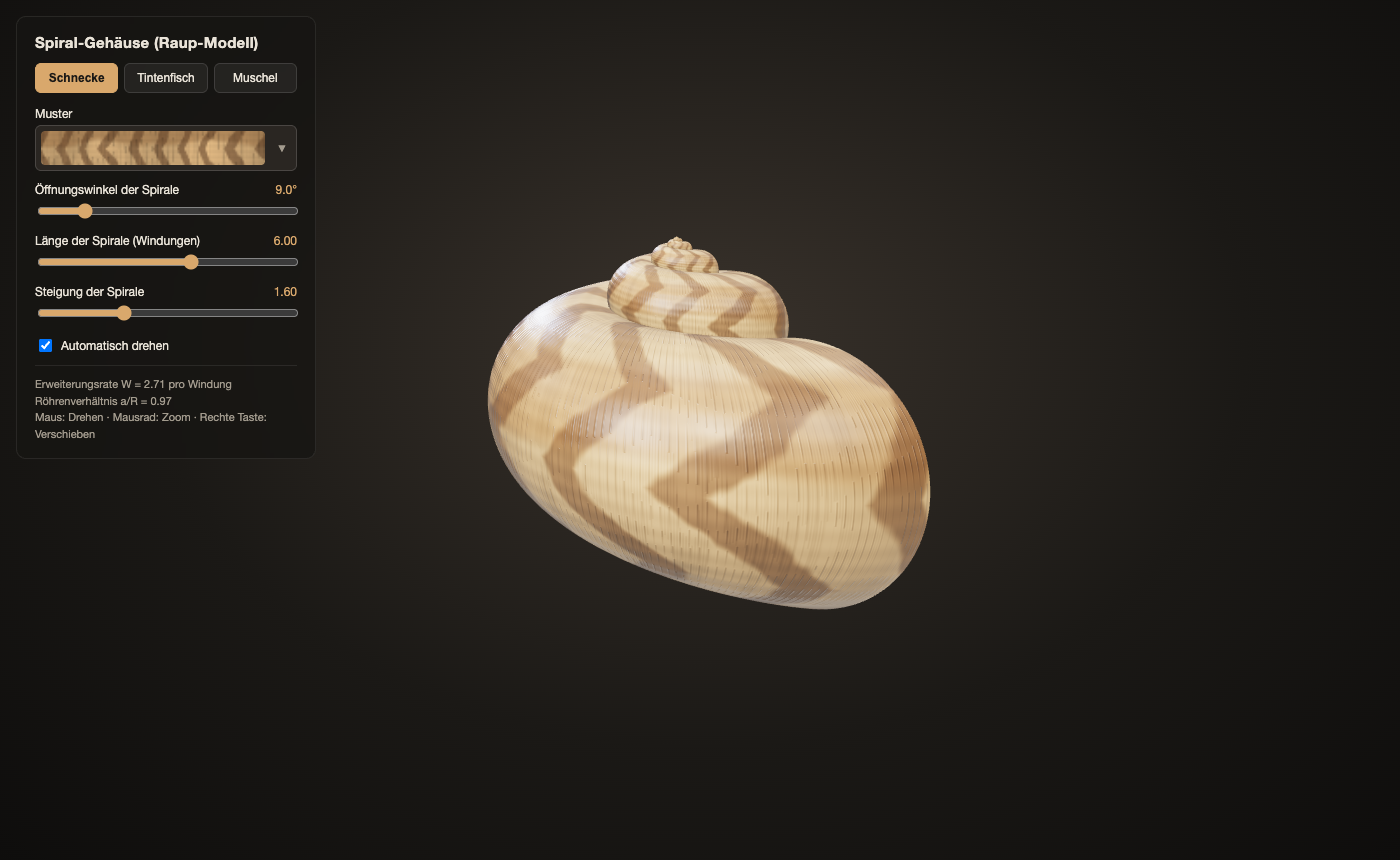
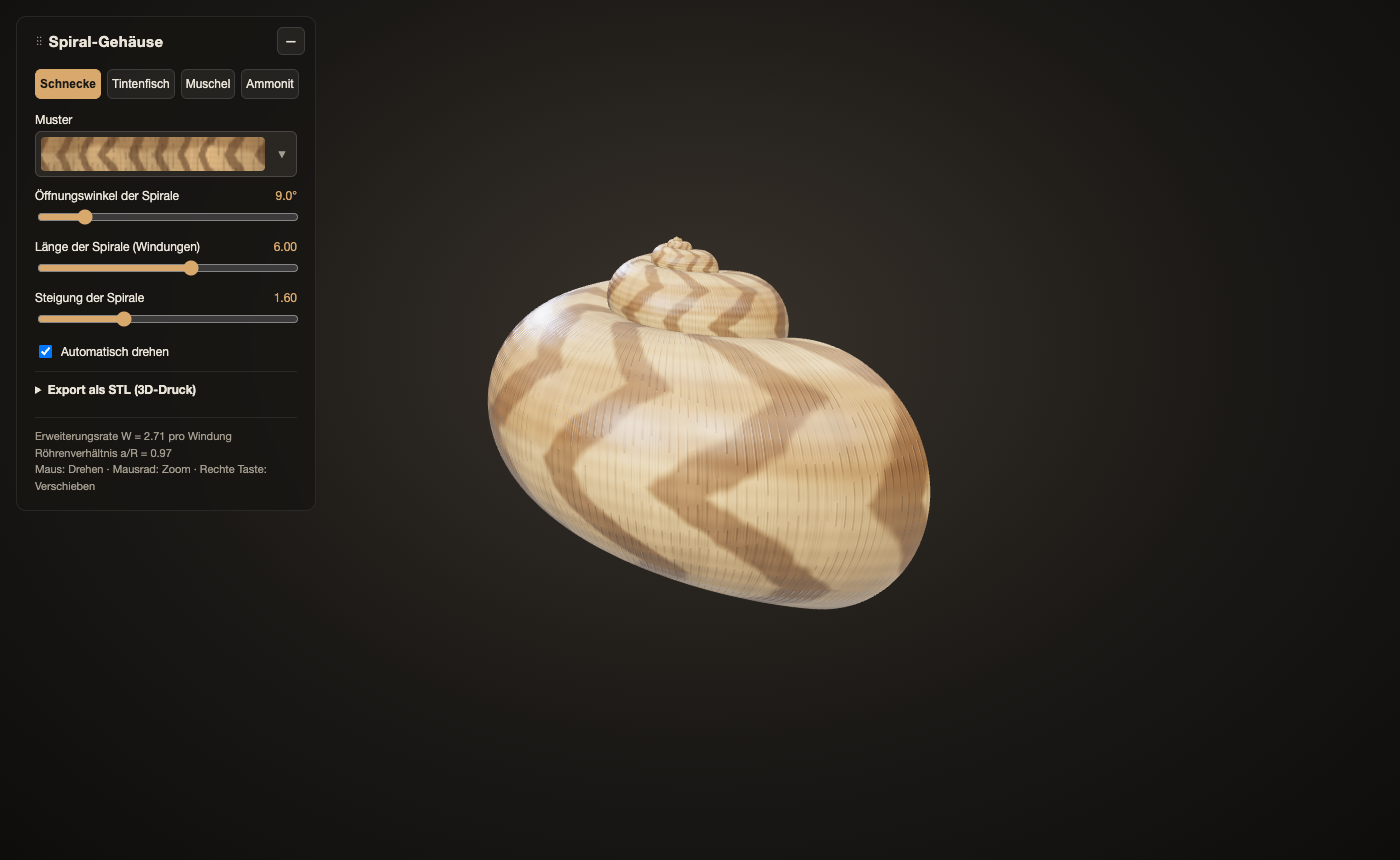
Ammonit als neue Grundform mit Fossil-Muster und Querrippen
- Preset 'ammonit' mit radialen Querrippen (crossRibs), feinere Auflösung pro Windung
- Muster 'Fossil (Ammonit)'
- window.shellApp als Zugriff für Screenshot-Skripte
- Screenshots und Social-Preview neu erzeugt

Changed region(s): [[0.0307, 0.0302, 0.215, 0.5744]]

diff --git a/index.html b/index.html
@@ -96,6 +96,7 @@
     <button data-preset="schnecke">Schnecke</button>
     <button data-preset="nautilus">Tintenfisch</button>
     <button data-preset="muschel">Muschel</button>
+    <button data-preset="ammonit">Ammonit</button>
   </div>
   <div class="ctrl">
     <label>Muster</label>
@@ -167,6 +168,12 @@ const PRESETS = {
     psi: 40, turns: 0.45, T: 0.15,
     bivalve: true, overlap: 1, b: 0.85, ribAmp: 0.022, ribs: 26,
     pattern: 'rippen', inner: { color:0xf6f0ea, iridescence:0.9 }
+  },
+  ammonit: {
+    psi: 5.5, turns: 5, T: 0,
+    bivalve: false, overlap: 1.05, b: 0.8, ribAmp: 0.0, ribs: 0,
+    crossRibs: 30, crossRibAmp: 0.07,          // radial ribs across the whorl (per turn)
+    pattern: 'fossil', inner: { color:0xb9a58c, iridescence:0.6 }
   }
 };
 
@@ -205,7 +212,10 @@ const PATTERNS = {
                 growth:160, growthDark:0.1, bump:1.6 },
   wellen:     { name:'Feine Wellenlinien', base:[214,194,162], mid:[180,150,115], dark:[78,56,40],
                 bands:2, bandStrength:0.3, flames:18, zig:6, zigAmp:1.2, flameLo:0.86, flameHi:0.95, flameStrength:0.9,
-                growth:160, growthDark:0.06, bump:0.7 }
+                growth:160, growthDark:0.06, bump:0.7 },
+  fossil:     { name:'Fossil (Ammonit)', base:[158,132,104], mid:[118,96,74], dark:[84,66,50],
+                bands:1, bandStrength:0.25, flames:3, zigAmp:0.4, flameLo:0.55, flameHi:0.9, flameStrength:0.3,
+                growth:110, growthDark:0.12, growthBump:0.8, bump:1.4 }
 };
 
 // ---------------------------------------------------------------------------
@@ -376,7 +386,7 @@ function buildShellGeometry(p) {
   // then close it in a single point on the coiling axis (the limit point of the log. spiral)
   const theta0 = p.bivalve ? 0 : -Math.min(Math.log(40) / k, 3 * 2 * Math.PI);
   const totalTurns = (thetaLen - theta0) / (2 * Math.PI);
-  const perTurn = p.res ? p.res.perTurn : 180;
+  const perTurn = p.res ? p.res.perTurn : (p.crossRibs ? 360 : 180);
   const nT = p.res ? Math.max(80, Math.ceil(totalTurns * perTurn))
                    : Math.min(2400, Math.max(80, Math.ceil(totalTurns * perTurn)));
   const rows = nT + 2;                               // row 0 = apex point
@@ -399,7 +409,12 @@ function buildShellGeometry(p) {
     const u = th / (2 * Math.PI) * tilesPerTurn;
     for (let j = 0; j <= nS; j++) {
       const s = -Math.PI + 2 * Math.PI * j / nS;    // seam on the inner (columellar) side
-      const rib = 1 + p.ribAmp * Math.cos(p.ribs * s);
+      let rib = 1 + p.ribAmp * Math.cos(p.ribs * s);
+      if (p.crossRibs) {
+        // sharp ribs across the whorl, strongest on the outer flank (s = 0)
+        const c = Math.pow(0.5 + 0.5 * Math.cos(p.crossRibs * th), 4);
+        rib += p.crossRibAmp * c * (0.3 + 0.7 * (0.5 + 0.5 * Math.cos(s)));
+      }
       const rr = R + a * rib * Math.cos(s);
       pos[pi++] = rr * cx;
       pos[pi++] = rr * cy;
@@ -441,6 +456,7 @@ scene.environmentIntensity = 0.7;
 const camera = new THREE.PerspectiveCamera(35, innerWidth / innerHeight, 0.01, 100);
 camera.position.set(3.2, 1.6, 5.2);
 const controls = new OrbitControls(camera, renderer.domElement);
+window.shellApp = { scene, camera, renderer, controls, get root() { return root; } };   // handle for screenshot scripts
 controls.enableDamping = true;
 controls.autoRotate = true;
 controls.autoRotateSpeed = 1.2;
